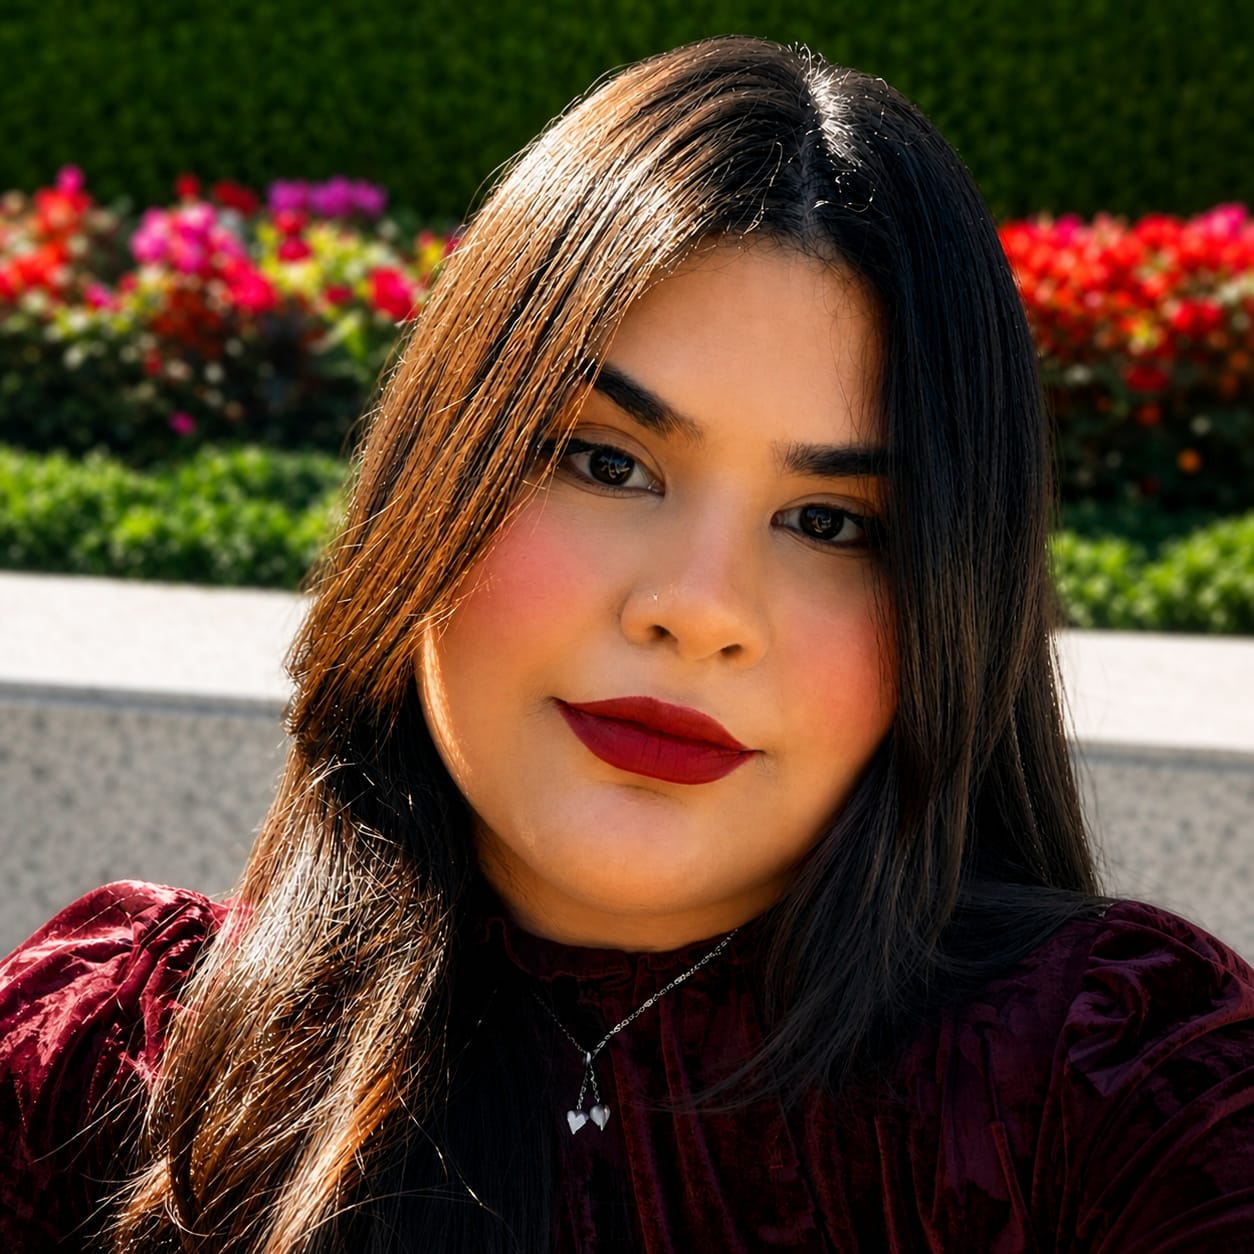
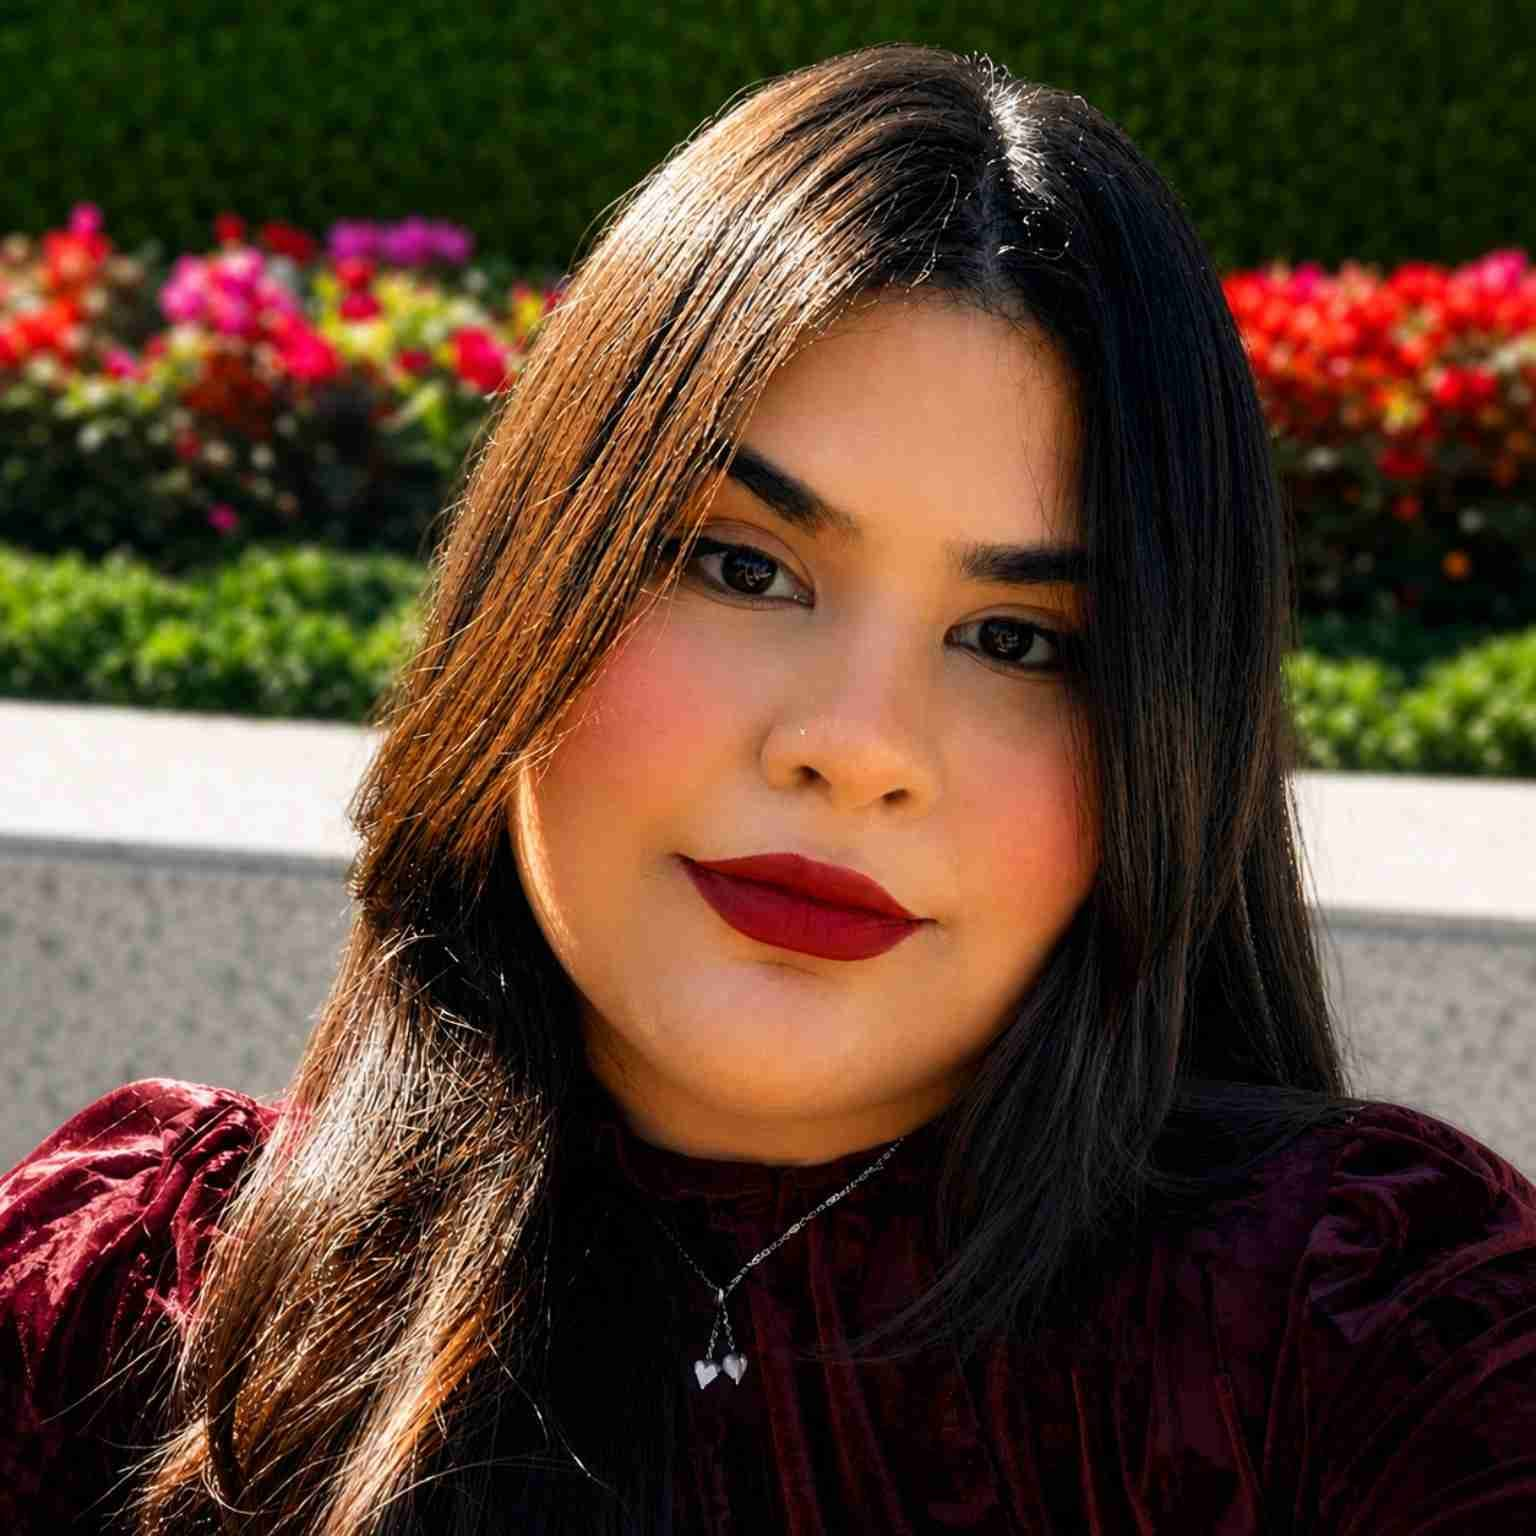
pagina inicial

diff --git a/index.html b/index.html
@@ -1,14 +1,14 @@
 <!DOCTYPE html>
 <html lang="pt-BR">
   <head>
-    <meta charset="UFT-8" />
+    <meta charset="UTF-8">
     <meta name="viewport" content="width=device-width,initial-scale=1.0">
     <title>Beatriz Morles | WDD130</title>
 </head>
 <body>
   <header>
     <nav>
-      <a /href="+">  <a href="">Pagina Inicial</a>
+      <a /href="+">  <a>Pagina Inicial</a>
       <a href="wwr/">Site de Raiting</a>
     </nav>
   </header>
